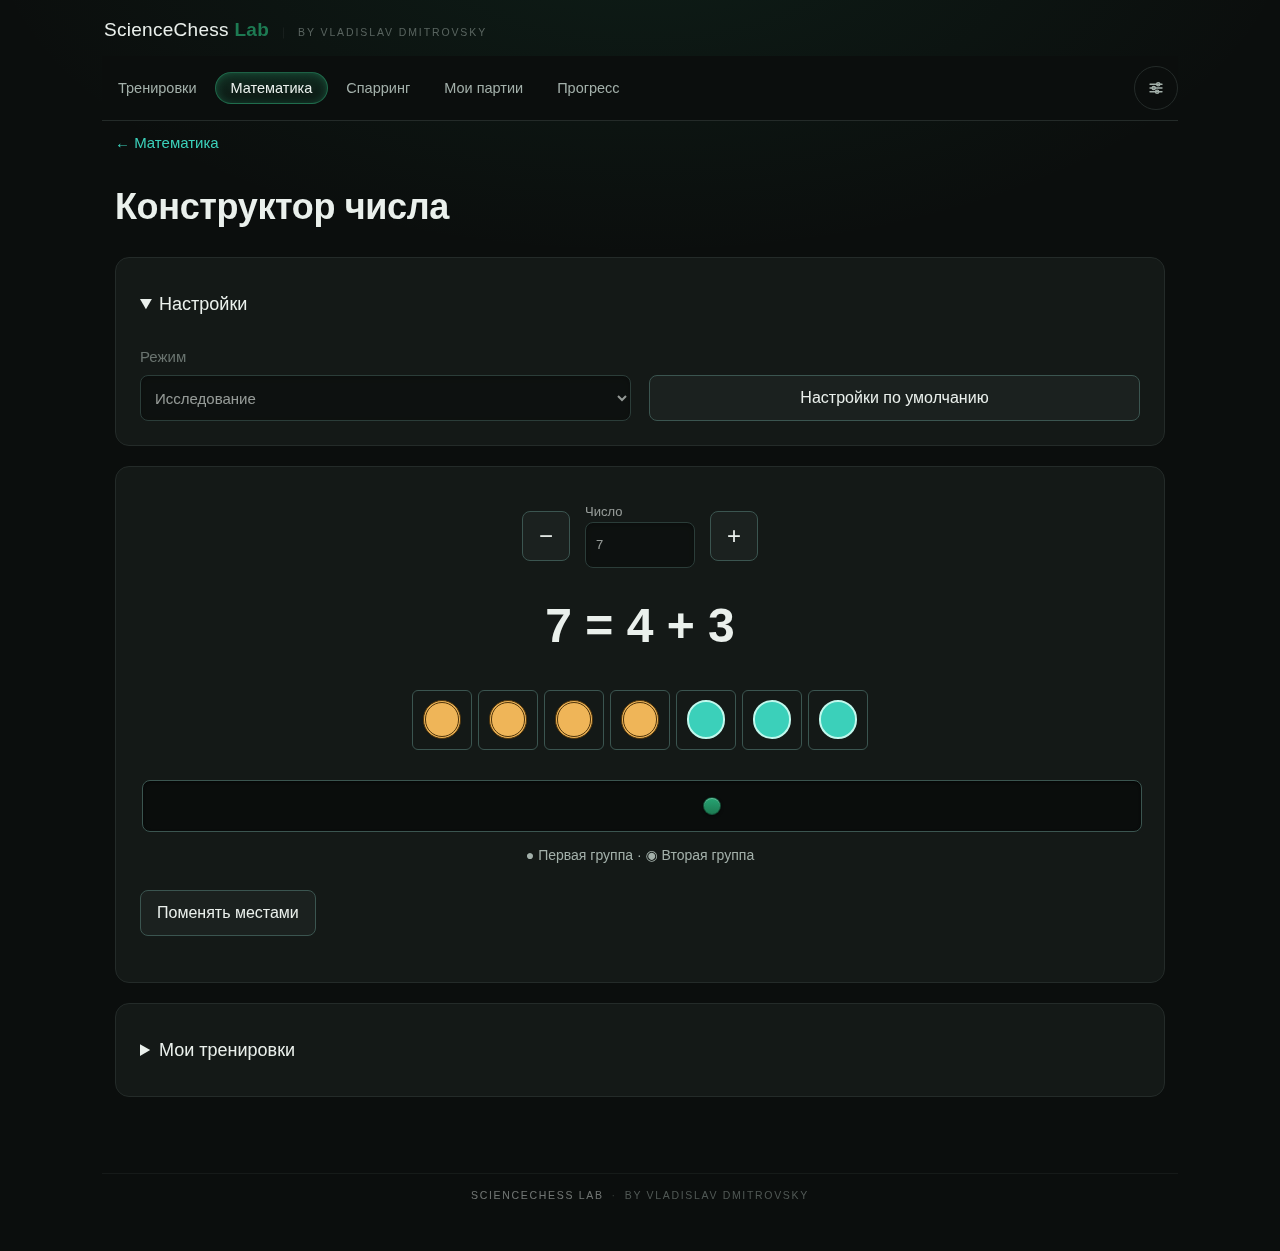
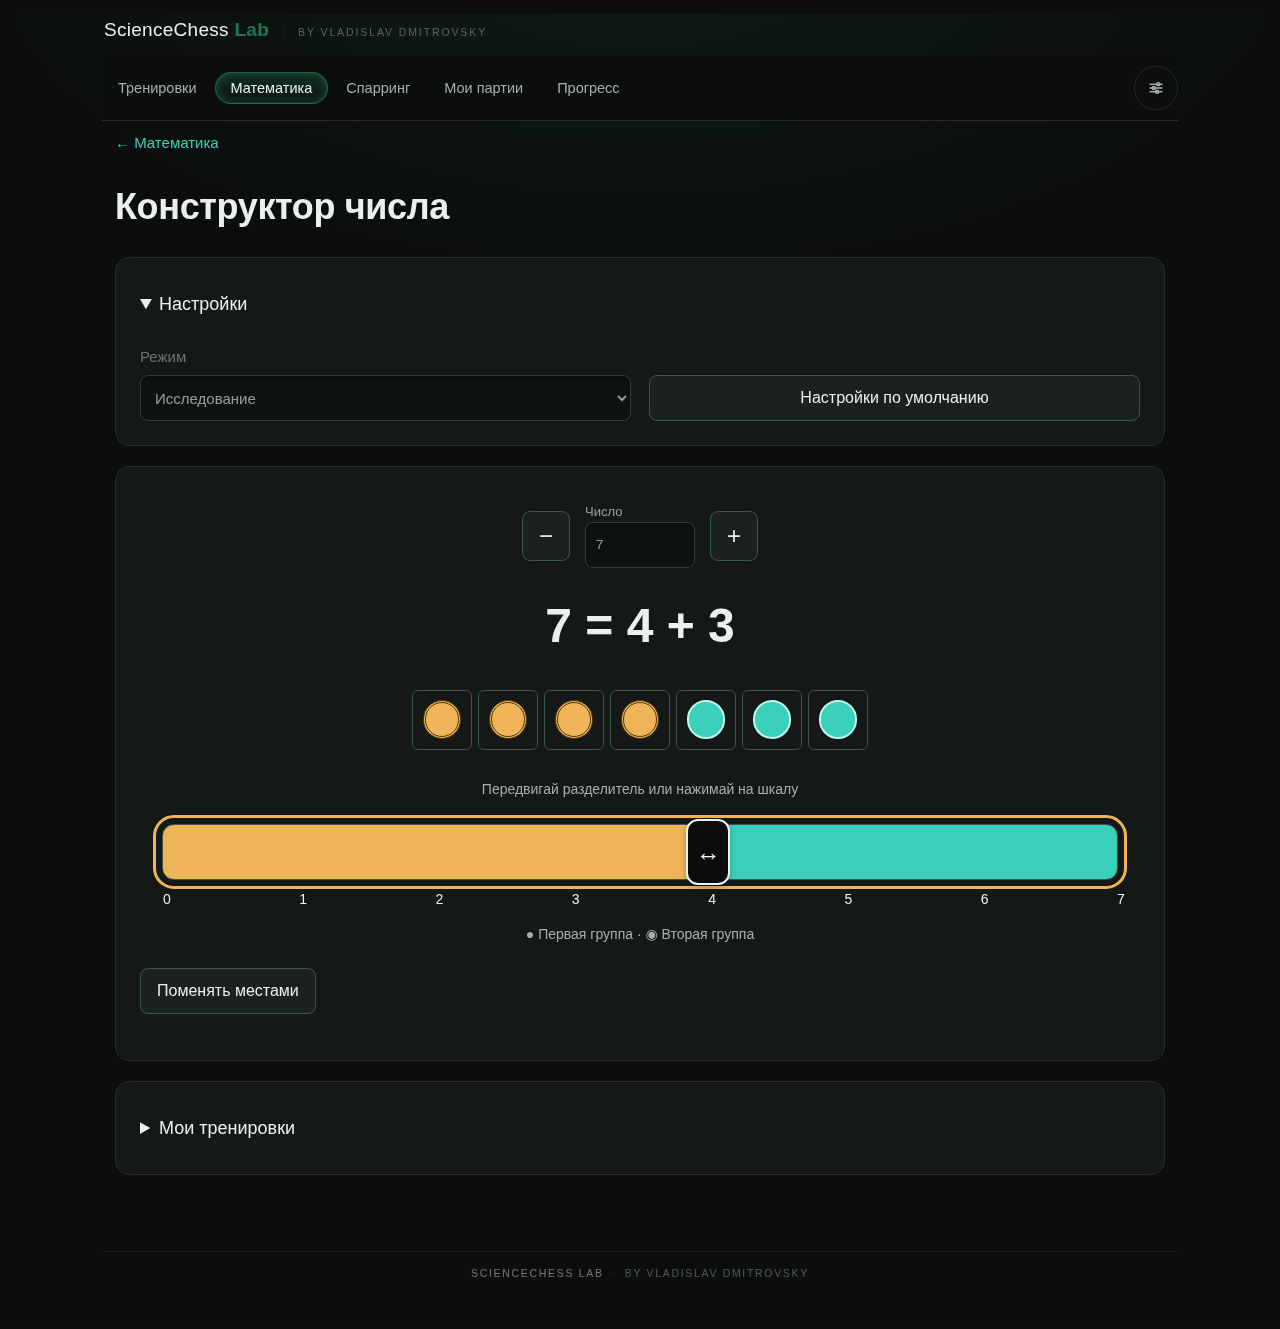
Improve MathLab split control, add moving dots and fix touch ball selection

diff --git a/src/modules/mathlab/index.ts b/src/modules/mathlab/index.ts
@@ -62,7 +62,7 @@ function mountExercise(root:HTMLElement,ctx:AppContext,id:Exercise):Unmount {
   const input=el('input',{type:'number',min:String(min),max:String(max),value:String(settings[key]),'aria-label':label});
   input.addEventListener('change',()=>{const v=Number(input.value);settings[key]=Math.max(min,Math.min(max,Number.isInteger(v)?v:min));if(key==='min')settings.max=Math.max(settings.min,settings.max);if(key==='max')settings.min=Math.min(settings.min,settings.max);changed();});field(label,input);
  }
- function checkbox(key:'frame'|'edges'|'auto',label:string){const input=el('input',{type:'checkbox'});input.checked=settings[key];input.addEventListener('change',()=>{settings[key]=input.checked;changed();});field(label,input);}
+ function checkbox(key:'frame'|'edges'|'auto'|'moving',label:string){const input=el('input',{type:'checkbox'});input.checked=settings[key];input.addEventListener('change',()=>{settings[key]=input.checked;changed();});field(label,input);}
  function renderSettings(){
   fields.replaceChildren();
   select('mode','Режим',id==='builder'||id==='bridge'?[['explore','Исследование'],['train',id==='builder'?'Найди неизвестную часть':'Тренировка']]:[['learn','Обучение'],['train','Тренировка']]);
@@ -73,6 +73,7 @@ function mountExercise(root:HTMLElement,ctx:AppContext,id:Exercise):Unmount {
    range.addEventListener('change',()=>{if(range.value==='custom'){settings.min=2;settings.max=8;}else{settings.min=1;settings.max=Number(range.value);}changed();});field('Количество точек',range);
    numberSetting('min','От',1,10);numberSetting('max','До',1,10);
    select('exposure','Время показа',[[500,'0,5 секунды'],[1000,'1 секунда'],[2000,'2 секунды'],[3000,'3 секунды'],[5000,'5 секунд']]);
+   checkbox('moving','Движущиеся точки');
    select('layout','Расположение', [['standard','Закономерные формы'],['groups','Группы и рамка десятки'],['random','Случайное; от 5 точек — группы']]);
   }
   if(id==='builder'&&settings.mode==='train'){
@@ -174,10 +175,11 @@ function mountExercise(root:HTMLElement,ctx:AppContext,id:Exercise):Unmount {
  function drawBuilder(){
   surface.replaceChildren();let whole=settings.whole,part=settings.part,flipped=false;const wholeInput=el('input',{type:'number',min:'2',max:'10',value:String(whole),'aria-label':'Целое число'});
   const eq=expression('');const visual=el('div');const slider=el('input',{type:'range',min:'0',max:'8',step:'1',value:'8','aria-label':'Первая часть'});
-  const update=()=>{[part]=split(whole,part);slider.max=String(whole);slider.value=String(part);slider.setAttribute('aria-valuetext',`${part} и ${whole-part}`);eq.textContent=`${whole} = ${part} + ${whole-part}`;eq.setAttribute('aria-label',eq.textContent);visual.replaceChildren(builderVisual(whole,part,flipped));settings.whole=whole;settings.part=part;persist();};
+  const rail=el('div',{class:'ml-splitter'});const ticks=el('div',{class:'ml-split-ticks','aria-hidden':'true'});const handle=el('span',{class:'ml-split-handle','aria-hidden':'true'},['↔']);rail.append(slider,handle,ticks);
+  const update=()=>{[part]=split(whole,part);rail.style.setProperty('--split',`${100*part/whole}%`);rail.classList.toggle('ml-flipped',flipped);ticks.replaceChildren(...Array.from({length:whole+1},(_,i)=>el('span',{},[String(i)])));slider.max=String(whole);slider.value=String(part);slider.setAttribute('aria-valuetext',`${part} и ${whole-part}`);eq.textContent=`${whole} = ${part} + ${whole-part}`;eq.setAttribute('aria-label',eq.textContent);visual.replaceChildren(builderVisual(whole,part,flipped));settings.whole=whole;settings.part=part;persist();};
   const changeWhole=(value:number)=>{whole=Math.max(2,Math.min(10,Number.isInteger(value)?value:2));wholeInput.value=String(whole);part=Math.min(part,whole);update();};
   wholeInput.addEventListener('change',()=>changeWhole(Number(wholeInput.value)));slider.addEventListener('input',()=>{part=Number(slider.value);update();});
-  surface.append(el('div',{class:'ml-whole-picker'},[button('−',()=>changeWhole(whole-1)),el('label',{},['Число ',wholeInput]),button('+',()=>changeWhole(whole+1))]),eq,visual,slider,el('div',{class:'ml-legend'},['● Первая группа · ◉ Вторая группа']),button('Поменять местами',()=>{part=whole-part;flipped=!flipped;update();}));update();
+  surface.append(el('div',{class:'ml-whole-picker'},[button('−',()=>changeWhole(whole-1)),el('label',{},['Число ',wholeInput]),button('+',()=>changeWhole(whole+1))]),eq,visual,el('p',{class:'ml-legend'},['Передвигай разделитель или нажимай на шкалу']),rail,el('div',{class:'ml-legend'},['● Первая группа · ◉ Вторая группа']),button('Поменять местами',()=>{part=whole-part;flipped=!flipped;update();}));update();
  }
  function drawMissing(){if(!task)return;surface.replaceChildren(expression(`${task.whole} = ${task.missingFirst?'?':task.a} + ${task.missingFirst?task.b:'?'}`));const answer=answerForm((v,text)=>submit(v[0]===task!.answer,text));surface.append(answer.form);}
  function drawFriends(){if(!task)return;const text=`${task.missingFirst?'?':task.a} + ${task.missingFirst?task.b:'?'}`;surface.replaceChildren(expression(task.reverse?`10 = ${text}`:`${text} = 10`));
@@ -187,7 +189,7 @@ function mountExercise(root:HTMLElement,ctx:AppContext,id:Exercise):Unmount {
  }
  function drawGlance(){
   if(!task)return;phase='prepare';surface.replaceChildren(el('p',{class:'ml-ready',role:'status'},['Приготовься']));
-  const taskDots=dots(task.whole,settings.layout);dotsReplay=taskDots;currentDots=null;
+  const taskDots=dots(task.whole,settings.layout);dotsReplay=taskDots.cloneNode(true) as HTMLElement;if(settings.moving)taskDots.classList.add('ml-moving');currentDots=null;
   if(document.hidden){onVisibility();return;}
   later(()=>{if(document.hidden){onVisibility();return;}phase='show';currentDots=taskDots;surface.replaceChildren(taskDots);const bar=el('div',{class:'ml-exposure','aria-hidden':'true'},[el('span',{style:`animation-duration:${settings.exposure}ms`})]);surface.append(bar);
    later(()=>{if(phase!=='show')return;phase='answer';currentDots=null;surface.replaceChildren(el('p',{class:'ml-instruction'},['Сколько было точек?']));taskStart=performance.now();const answer=answerForm((v,text)=>submit(v[0]===task!.answer,text));surface.append(answer.form);

diff --git a/src/modules/mathlab/visuals.ts b/src/modules/mathlab/visuals.ts
@@ -9,14 +9,14 @@ export function dots(n:number,layout:MathSettings['layout'],rng:Rng=Math.random)
  const {points,frame}=dotLayout(n,layout,rng);
  const area=el('div',{class:`ml-dots ${frame?'ml-dots-frame':''}`,'aria-label':'Точки для запоминания'});
  if(frame)for(let i=0;i<10;i++)area.append(el('span',{class:'ml-dot-cell','aria-hidden':'true',style:`left:${(i%5)*20}%;top:${Math.floor(i/5)*50}%`}));
- for(const p of points)area.append(el('span',{class:'ml-dot','aria-hidden':'true',style:`left:${p.x}%;top:${p.y}%`}));
+ for(const [i,p] of points.entries())area.append(el('span',{class:'ml-dot','aria-hidden':'true',style:`left:${p.x}%;top:${p.y}%;--orbit-duration:${1.5+i*.17}s;--orbit-delay:${-i*.31}s`}));
  return area;
 }
 /** Pointer drag and keyboard/tap selection share the same atomic state transition. */
 export function mountBoxes(host:HTMLElement,state:Boxes,onChange:(next:Boxes)=>void,enabled=true):()=>void {
  host.replaceChildren();let selected:number|null=null;
  let drag:{id:number;from:number;x:number;y:number;button:HTMLElement;moved:boolean}|null=null;
- let ghost:HTMLElement|null=null;let hover:HTMLElement|null=null;let lastPointerUp=-1000;let lastPointerButton:HTMLElement|null=null;
+ let ghost:HTMLElement|null=null;let hover:HTMLElement|null=null;let draggedButton:HTMLElement|null=null;
  const status=el('p',{class:'ml-instruction',role:'status'},['Перенеси шарик из второй коробки в свободную ячейку первой.']);
  const boxes=el('div',{class:'ml-boxes'});
  const targets:HTMLButtonElement[]=[];const sources:HTMLButtonElement[]=[];
@@ -40,7 +40,7 @@ export function mountBoxes(host:HTMLElement,state:Boxes,onChange:(next:Boxes)=>v
  const commit=(from:number,to:number)=>{const next=transfer(state,from,to);if(next!==state)onChange(next);};
  const click=(e:MouseEvent)=>{
   const b=cell(e.target);if(!b||b.disabled)return;
-  if(e.detail!==0&&b===lastPointerButton&&performance.now()-lastPointerUp<500)return;
+  if(b===draggedButton){draggedButton=null;return;}
   const index=Number(b.dataset.index);
   if(b.dataset.side==='right')select(selected===index?null:index);
   else if(selected!==null)commit(selected,index);
@@ -49,7 +49,7 @@ export function mountBoxes(host:HTMLElement,state:Boxes,onChange:(next:Boxes)=>v
  const down=(e:PointerEvent)=>{
   if(drag||!e.isPrimary||e.button!==0)return;
   const b=cell(e.target);if(!b||b.disabled||b.dataset.side!=='right')return;
-  e.preventDefault();b.focus({preventScroll:true});
+  draggedButton=null;b.focus({preventScroll:true});
   drag={id:e.pointerId,from:Number(b.dataset.index),x:e.clientX,y:e.clientY,button:b,moved:false};b.setPointerCapture(e.pointerId);
  };
  const move=(e:PointerEvent)=>{
@@ -64,14 +64,18 @@ export function mountBoxes(host:HTMLElement,state:Boxes,onChange:(next:Boxes)=>v
  };
  const up=(e:PointerEvent)=>{
   if(!drag||drag.id!==e.pointerId)return;
-  const {from,moved,button}=drag;lastPointerUp=performance.now();lastPointerButton=button;
+  const {from,moved,button}=drag;
+  // Pointer-up owns this gesture. Consume its compatibility click regardless
+  // of detail (touch browsers may report zero, just like keyboard clicks).
+  draggedButton=button;
   const target=cell(document.elementFromPoint(e.clientX,e.clientY));
   if(button.hasPointerCapture(e.pointerId))button.releasePointerCapture(e.pointerId);
   clean();
-  if(!moved)select(selected===from?null:from);
-  else if(target&&host.contains(target)&&target.dataset.side==='left'&&!target.disabled)commit(from,Number(target.dataset.index));
+  if(!moved){select(selected===from?null:from);return;}
+  if(target&&host.contains(target)&&target.dataset.side==='left'&&!target.disabled)commit(from,Number(target.dataset.index));
   else{select(null);status.textContent='Шарик вернулся во вторую коробку. Выбери свободную ячейку первой.';}
  };
- host.addEventListener('click',click);host.addEventListener('pointerdown',down);host.addEventListener('pointermove',move);host.addEventListener('pointerup',up);host.addEventListener('pointercancel',clean);host.addEventListener('lostpointercapture',clean);
- return ()=>{clean();host.removeEventListener('click',click);host.removeEventListener('pointerdown',down);host.removeEventListener('pointermove',move);host.removeEventListener('pointerup',up);host.removeEventListener('pointercancel',clean);host.removeEventListener('lostpointercapture',clean);};
+ const key=()=>{draggedButton=null;};
+ host.addEventListener('keydown',key);host.addEventListener('click',click);host.addEventListener('pointerdown',down);host.addEventListener('pointermove',move);host.addEventListener('pointerup',up);host.addEventListener('pointercancel',clean);host.addEventListener('lostpointercapture',clean);
+ return ()=>{clean();host.removeEventListener('keydown',key);host.removeEventListener('click',click);host.removeEventListener('pointerdown',down);host.removeEventListener('pointermove',move);host.removeEventListener('pointerup',up);host.removeEventListener('pointercancel',clean);host.removeEventListener('lostpointercapture',clean);};
 }

diff --git a/src/modules/mathlab/styles.css b/src/modules/mathlab/styles.css
@@ -9,3 +9,19 @@
 @media(max-width:650px){.mathlab .ml-cards{grid-template-columns:1fr}.mathlab .ml-panel{padding:18px}.mathlab .ml-boxes{grid-template-columns:1fr;gap:14px}.mathlab .ml-transfer-frame{max-width:350px;margin:10px auto}.mathlab .ml-cell{min-height:44px}.mathlab .ml-parts{gap:3px}.mathlab .ml-part .ml-ball{border-width:1px}.mathlab .ml-fields{grid-template-columns:repeat(2,minmax(0,1fr))}.mathlab .ml-field:has(.ml-number-choices){grid-column:1/-1}.mathlab .ml-dots{height:220px}.mathlab .ml-stats{grid-template-columns:repeat(2,minmax(0,1fr))}}
 @media(max-width:370px){.mathlab .ml-panel{padding:12px}.mathlab .ml-frame{gap:4px;padding:6px}.mathlab .ml-cell{min-height:40px}.mathlab .ml-equation{font-size:27px}.mathlab .ml-fields{grid-template-columns:1fr}}
 @media(prefers-reduced-motion:reduce){.mathlab *{animation:none!important;transition:none!important}.mathlab .ml-exposure span{transform:scaleX(1)}}
+
+/* The native range owns pointer and keyboard input; its visible rail and divider
+   are local to MathLab and share one integer value with the number model. */
+.mathlab .ml-splitter{position:relative;margin:16px 22px 44px;height:56px;border-radius:12px;background:linear-gradient(to right,var(--ml-teal) 0 var(--split),var(--ml-amber) var(--split) 100%);border:1px solid var(--ml-line)}
+.mathlab .ml-splitter.ml-flipped{background:linear-gradient(to right,var(--ml-amber) 0 var(--split),var(--ml-teal) var(--split) 100%)}
+.mathlab .ml-splitter input[type=range]{position:absolute;inset:0;width:calc(100% + 44px);left:-22px;height:56px;margin:0;opacity:0;z-index:2;touch-action:pan-y}
+.mathlab .ml-splitter:focus-within{outline:3px solid var(--ml-amber);outline-offset:6px}
+.mathlab .ml-split-handle{position:absolute;left:var(--split);top:-6px;bottom:-6px;width:44px;transform:translateX(-50%);display:grid;place-items:center;border:2px solid var(--fg-strong);border-radius:12px;background:var(--well);color:var(--fg-strong);font-size:25px;pointer-events:none;box-shadow:0 2px 6px #0004;transition:left 100ms ease-out}
+.mathlab .ml-split-ticks{position:absolute;inset:0;display:flex;justify-content:space-between;pointer-events:none}
+.mathlab .ml-split-ticks span{position:relative;top:64px;width:0;text-align:center;font-size:14px;font-variant-numeric:tabular-nums;color:var(--fg-strong)}
+.mathlab .ml-split-ticks span::before{content:'';position:absolute;bottom:30px;left:0;height:10px;border-left:1px solid #10221f88}
+.mathlab .ml-moving .ml-dot{animation:ml-dot-orbit var(--orbit-duration) ease-in-out var(--orbit-delay) infinite}
+@keyframes ml-dot-orbit{0%,100%{transform:translate(calc(-50% - 8px),calc(-50% - 12px))}25%{transform:translate(calc(-50% + 8px),calc(-50% - 7px))}50%{transform:translate(calc(-50% + 7px),calc(-50% + 12px))}75%{transform:translate(calc(-50% - 8px),calc(-50% + 7px))}}
+.mathlab .ml-splitter input[type=range]{appearance:none;background:transparent;border:0;border-radius:0}
+.mathlab .ml-splitter input[type=range]::-webkit-slider-thumb{appearance:none;width:44px;height:56px;background:transparent;border:0}
+.mathlab .ml-splitter input[type=range]::-moz-range-thumb{width:44px;height:56px;background:transparent;border:0;border-radius:0}

diff --git a/tests/mathlab-ui.test.ts b/tests/mathlab-ui.test.ts
@@ -59,3 +59,26 @@ it('mental feedback identifies a wrong transfer even when the final sum is corre
 it('does not start a new exposure while the page is already in the background',async()=>{
  unmount=mathExercise('glance')(root,ctx());vi.spyOn(document,'hidden','get').mockReturnValue(true);button('Начать').click();await vi.advanceTimersByTimeAsync(10000);expect(root.querySelector('.ml-dot')).toBeNull();expect(root.querySelector('form')).toBeNull();expect(root.textContent).toContain('без штрафа');
 });
+it('keeps moving dots optional, hides them on deadline and replays a still image',async()=>{
+ unmount=mathExercise('glance')(root,ctx());
+ const toggle=[...root.querySelectorAll<HTMLInputElement>('input[type=checkbox]')][0];
+ expect(toggle.checked).toBe(false);toggle.checked=true;toggle.dispatchEvent(new Event('change'));
+ select('Время показа','500');button('Начать').click();await vi.advanceTimersByTimeAsync(600);
+ expect(root.querySelector('.ml-moving .ml-dot')).not.toBeNull();
+ const count=root.querySelectorAll('.ml-dot').length;expect(count).toBeGreaterThan(0);
+ await vi.advanceTimersByTimeAsync(500);expect(root.querySelector('.ml-moving')).toBeNull();answer('0');
+ button('Посмотреть расположение').click();expect(root.querySelector('.ml-moving')).toBeNull();expect(root.querySelectorAll('.ml-dot').length).toBe(count);
+});
+
+it('handles a touch-style zero-detail compatibility click exactly once',()=>{
+ unmount=mathExercise('bridge')(root,ctx());
+ const source=root.querySelector<HTMLButtonElement>('[data-side=right][data-index="0"]')!;
+ source.setPointerCapture=()=>{};source.hasPointerCapture=()=>false;
+ const pointer=(type:string)=>{const e=new MouseEvent(type,{bubbles:true,button:0,clientX:10,clientY:10});Object.defineProperties(e,{isPrimary:{value:true},pointerId:{value:1}});source.dispatchEvent(e);};
+ Object.defineProperty(document,'elementFromPoint',{configurable:true,value:()=>source});
+ pointer('pointerdown');pointer('pointerup');source.dispatchEvent(new MouseEvent('click',{bubbles:true,detail:0}));
+ expect(source.getAttribute('aria-pressed')).toBe('true');
+ root.querySelector<HTMLButtonElement>('[data-side=left][data-index="8"]')!.click();
+ expect(root.querySelector('[data-side=left][data-index="8"] .ml-ball')).not.toBeNull();
+ expect(root.querySelectorAll('.ml-boxes .ml-ball')).toHaveLength(13);
+});

diff --git a/src/modules/mathlab/logic.ts b/src/modules/mathlab/logic.ts
@@ -2,14 +2,14 @@ export const EXERCISES = ['glance', 'builder', 'friends', 'bridge'] as const;
 export type Exercise = typeof EXERCISES[number];
 export interface MathSettings {
   mode: 'learn' | 'train' | 'explore'; count: number; min: number; max: number;
-  exposure: number; layout: 'standard' | 'groups' | 'random';
+  exposure: number; moving: boolean; layout: 'standard' | 'groups' | 'random';
   unknown: 'first' | 'second' | 'random'; level: number; frame: boolean;
   whole: number; part: number; auto: boolean; edges: boolean; numbers: number[]; a: number; b: number;
 }
 export const TITLES: Record<Exercise,string> = {glance:'Мгновенный взгляд',builder:'Конструктор числа',friends:'Друзья десятки',bridge:'Дострой десятку'};
 export function defaults(id:Exercise):MathSettings {
   return {mode:id==='builder'||id==='bridge'?'explore':'learn',count:10,min:id==='builder'?2:1,max:id==='builder'?10:4,
-    exposure:1000,layout:'standard',unknown:'random',level:1,frame:true,whole:8,part:8,auto:false,edges:false,numbers:[1,2,3,4,5,6,7,8,9],a:8,b:5};
+    exposure:1000,moving:false,layout:'standard',unknown:'random',level:1,frame:true,whole:8,part:8,auto:false,edges:false,numbers:[1,2,3,4,5,6,7,8,9],a:8,b:5};
 }
 const integer=(v:unknown,fallback:number,min:number,max:number)=>typeof v==='number'&&Number.isInteger(v)&&v>=min&&v<=max?v:fallback;
 export function sanitize(id:Exercise,raw:unknown):MathSettings {
@@ -18,6 +18,7 @@ export function sanitize(id:Exercise,raw:unknown):MathSettings {
   return {...d,mode:r.mode&&['learn','train','explore'].includes(r.mode)?r.mode:d.mode,
     count:[5,10,20,30].includes(r.count!)?r.count!:d.count,min,max:Math.max(min,integer(r.max,d.max,id==='builder'?2:1,10)),
     exposure:[500,1000,2000,3000,5000].includes(r.exposure!)?r.exposure!:d.exposure,
+    moving:typeof r.moving==='boolean'?r.moving:false,
     layout:r.layout&&['standard','groups','random'].includes(r.layout)?r.layout:d.layout,
     unknown:r.unknown&&['first','second','random'].includes(r.unknown)?r.unknown:d.unknown,
     whole:integer(r.whole,8,2,10),part:Math.min(integer(r.whole,8,2,10),integer(r.part,8,0,10)),level:integer(r.level,1,1,3),frame:typeof r.frame==='boolean'?r.frame:d.frame,auto:typeof r.auto==='boolean'?r.auto:d.auto,

diff --git a/docs/mathlab/interaction-update.md b/docs/mathlab/interaction-update.md
@@ -1,0 +1,7 @@
+# MathLab: движение точек и управление
+
+- «Мгновенный взгляд»: сохраняемая настройка «Движущиеся точки», по умолчанию выключена. Независимые ограниченные траектории CSS сохраняют исходную структуру групп. Количество и время показа не меняются. Повторный просмотр расположения статичен; reduced motion отключает движение.
+- «Конструктор числа»: двухцветная шкала с отметками 0…N и разделителем 44 px. Штатный range обрабатывает мышь, касания и клавиатуру, визуальный разделитель плавно следует целому значению. В режиме неизвестной части шкала не раскрывает ответ.
+- «Дострой десятку»: pointerup однократно выполняет выбор/перенос. Совместимый click поглощается независимо от detail, клавиатурное нажатие очищает этот маркер. Отменённые жесты очищают визуальное состояние. Не используются задержки блокировки кликов. Проверка переноса остаётся атомарной в математической модели.
+
+Проверки: полный Vitest, MathLab browser suite в Classic Dark и Brilliant Dark; реальные CDP touch-события, мышь, неверные переносы, отмена, сохранение настроек, завершение серий и запуск шахматной моторики. Эмуляция Chromium не заменяет проверку на физическом iPad/Safari.
